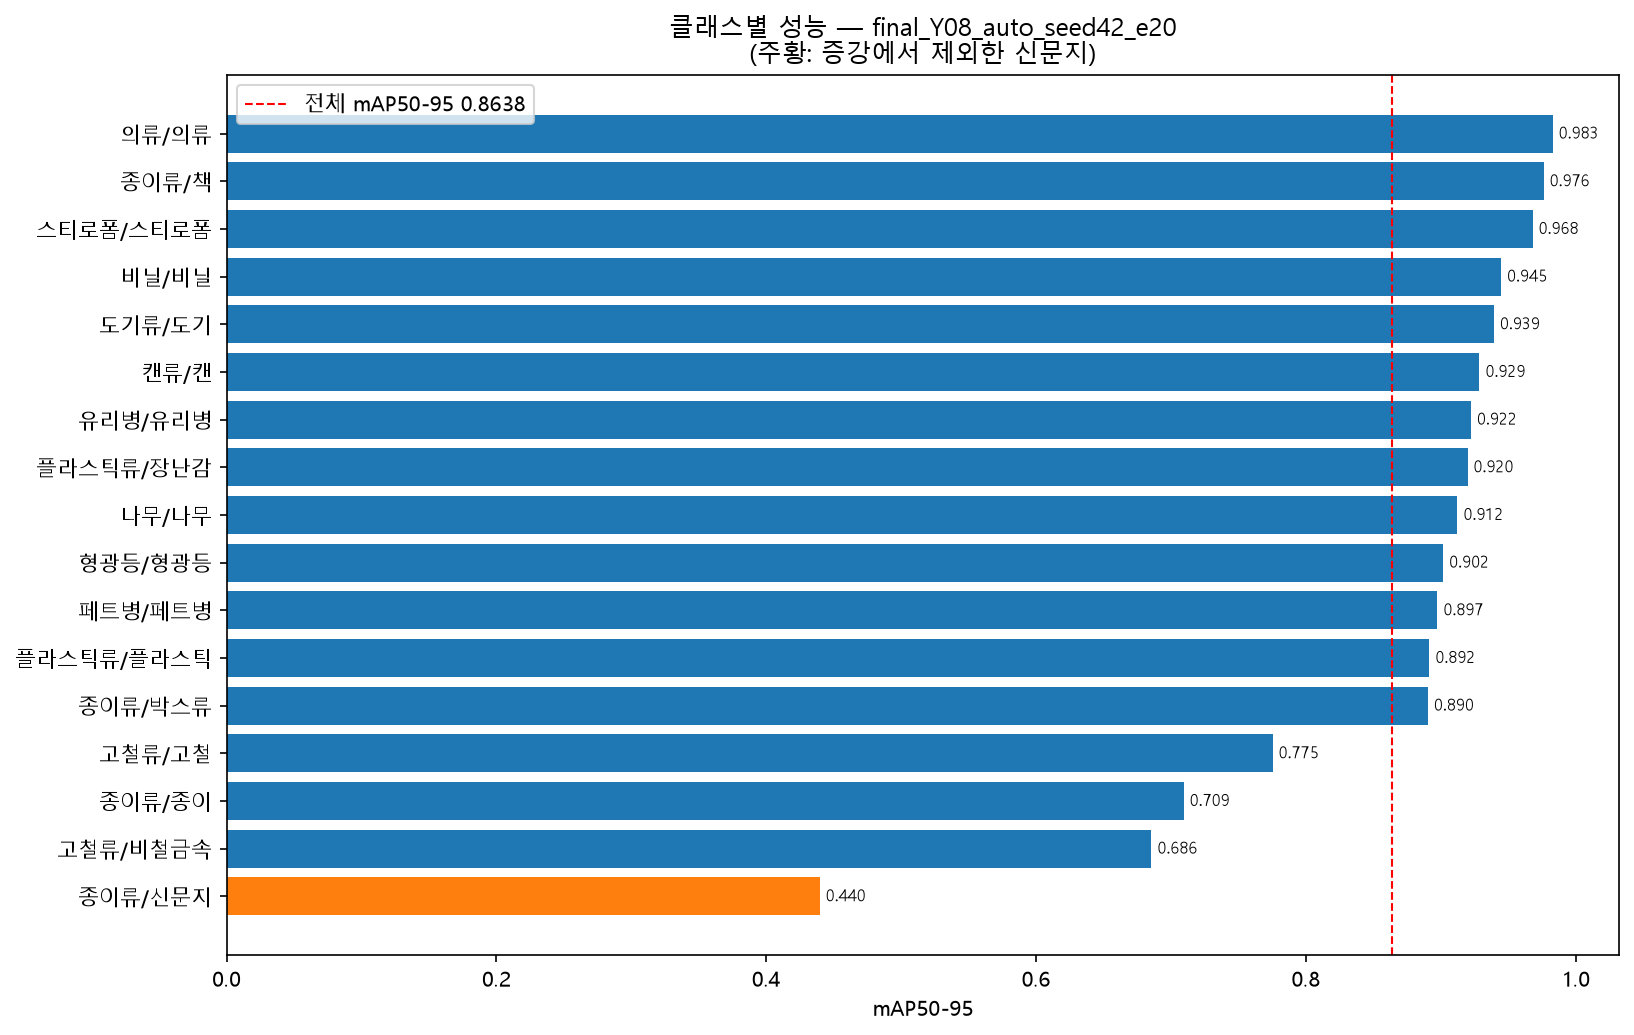
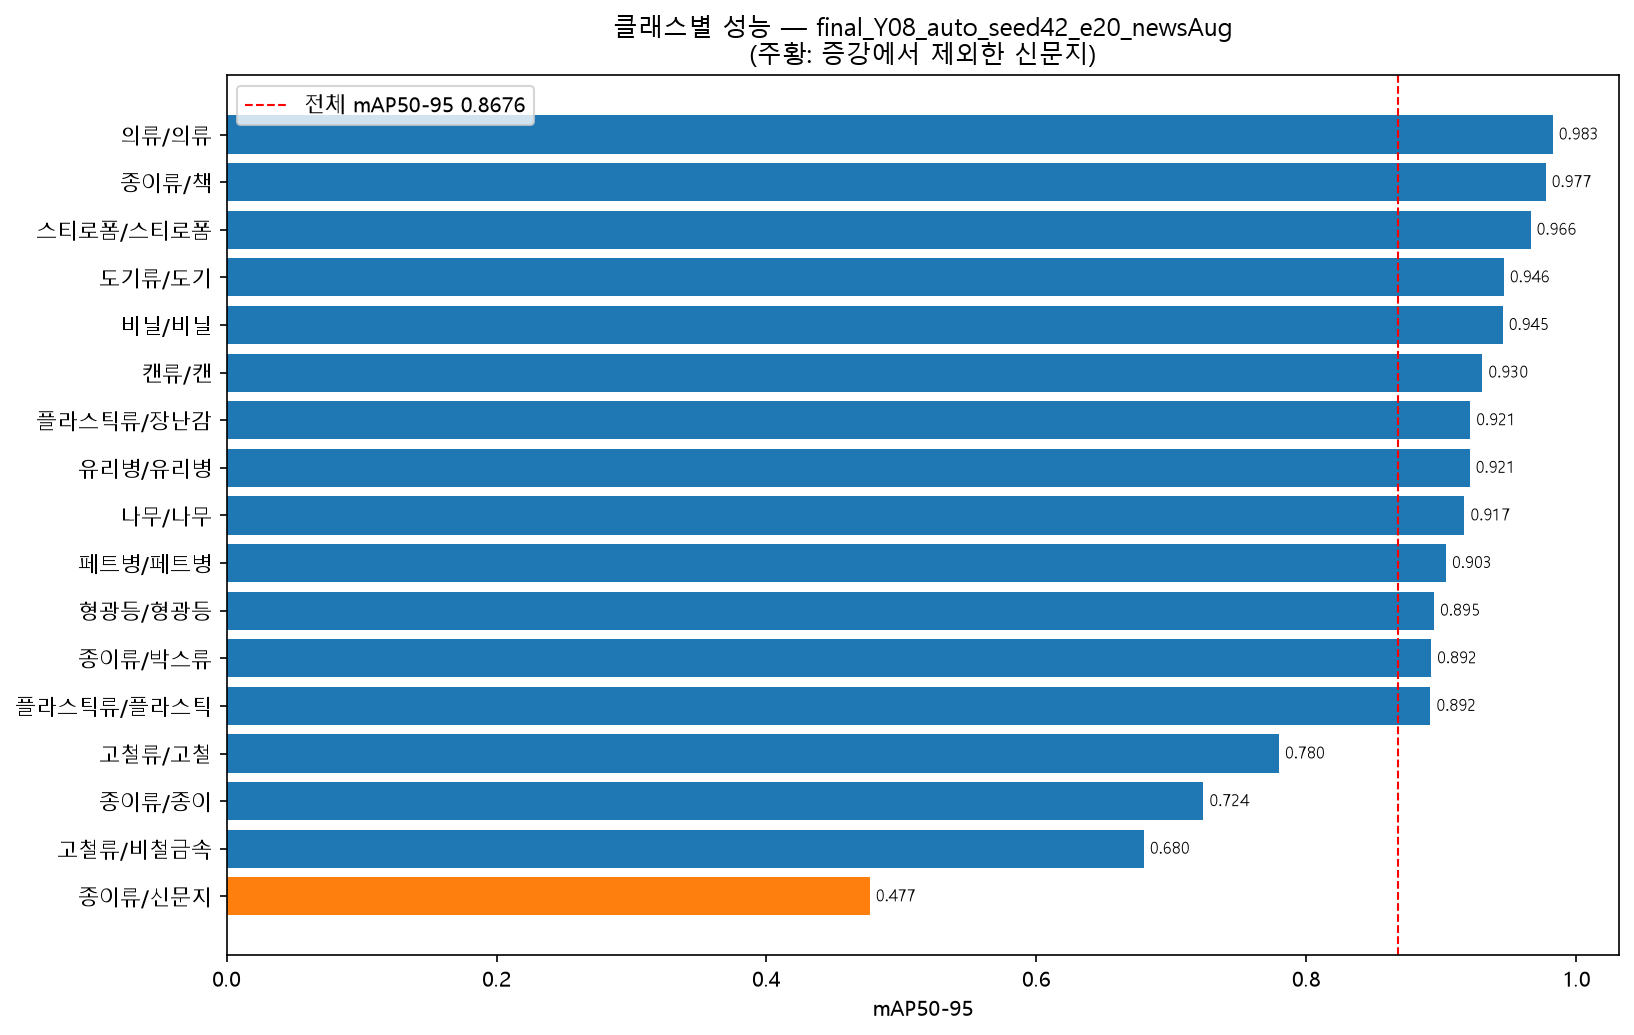
experiment: 신문지 증강 A/B 결과 반영 — newsAug 판을 배포본으로 교체
신문지(class 10)를 학습 중 증강에서 제외할지 A/B 로 확인했습니다.
전 클래스를 동일하게 증강한 쪽이 모든 지표에서 우위였습니다.

                     제외(구본)   전체증강(newsAug)
  mAP50-95             0.8638         0.8676
  mAP50                0.9173         0.9226
  Precision            0.8911         0.8987
  Recall               0.8816         0.8971
  추론(ms/장)            1.33           1.30

- weights/best.pt 를 newsAug 판으로 교체 (구본은 backup 으로 보관)
- ai/README.md: 배포본 경로·지표를 newsAug 기준으로 갱신,
  이전에 남겨둔 "기록 불일치" 주의 문구 정리

diff --git a/ai/README.md b/ai/README.md
@@ -23,6 +23,7 @@ ai/
 5. [실험 흐름과 개선 과정](#5-실험-흐름과-개선-과정)
 6. [겪은 문제와 해결](#6-겪은-문제와-해결)
 7. [숫자를 읽을 때의 규칙](#7-숫자를-읽을-때의-규칙)
+8. [신문지 증강 A/B 실험](#신문지-증강-ab-실험)
 
 ---
 
@@ -30,7 +31,7 @@ ai/
 
 | 항목 | 값 |
 |---|---|
-| 가중치 | `weights/best.pt` (= `ai/models/yolo/07_final_training/runs/final_Y08_auto_seed42_e20/weights/best.pt`) |
+| 가중치 | `weights/best.pt` (= `ai/models/yolo/07_final_training/runs/final_Y08_auto_seed42_e20_newsAug/weights/best.pt`) |
 | 베이스 모델 | `yolo26n.pt` |
 | 클래스 | 17개 |
 | 학습 데이터 | 144,315장 (객체 158,590개) |
@@ -38,22 +39,20 @@ ai/
 | epoch / imgsz / batch | 20 / 640 / 8 |
 | 증강 | `mosaic=0.7`, `close_mosaic=4`, 나머지 전부 0 |
 | 하이퍼파라미터 | `optimizer="auto"` (Optuna 튜닝값 미사용) |
-| 신문지(class 10) | 학습 중 증강에서 제외 (아래 주의 참고) |
-| mAP50-95 | **0.8639** |
-| mAP50 | 0.9173 |
-| Precision / Recall / F1 | 0.8911 / 0.8816 / 0.8863 |
+| 신문지(class 10) | **다른 클래스와 동일하게 증강** (`EXCLUDE_NEWSPAPER_FROM_AUG = False`) |
+| mAP50-95 | **0.8676** |
+| mAP50 | 0.9226 |
+| Precision / Recall / F1 | 0.8987 / 0.8971 / 0.8979 |
 | 추론 속도 | **1.33 ms/장** (RTX 4070 Laptop) |
 | 학습 시간 | 약 20시간 |
 
 > `test` 분할은 없습니다. 위 수치는 전부 **val 기준**입니다.
 >
-> **신문지 증강 제외 여부는 파일마다 기록이 엇갈립니다.**
-> `final_result.csv`(09-28 08:22) 는 `newspaper_excluded = True`,
-> `final_decision.json`(09-28 15:17 재생성) 은 `"적용": false` 입니다.
-> 학습 결과 파일이 08:22 로 더 이르고 실행 이름에 `newsNoAug` 가 붙은 사본
-> (`final_result_final_Y08_auto_seed42_e20_newsNoAug.csv`, 내용 동일)이 있는 것으로 보아
-> **실제 학습은 제외한 상태로 돌았고**, 이후 결정 파일만 옵션을 끈 채 다시 생성된 것으로
-> 보입니다. 재현 전에 `selective_aug.py` 적용 여부를 반드시 확인하세요.
+> **신문지 증강 여부는 A/B 로 확정했습니다.** 아래 [신문지 증강 A/B 실험](#신문지-증강-ab-실험) 참고.
+>
+> 과거에 기록이 엇갈렸던 원인도 확인됐습니다. `final_decision.json` 이 `"적용": false` 였던 것은
+> 2차 학습 전 `--dry-run` 이 그 파일을 다시 쓴 탓이고, 1차 학습(09-28 08:22)은 실제로
+> **제외한 상태**가 맞습니다.
 
 ---
 
@@ -467,6 +466,59 @@ def close_mosaic(self, hyp):
 
 ---
 
+## 신문지 증강 A/B 실험
+
+같은 데이터·같은 설정으로 **변수 하나만 바꿔** 20 epoch 씩 두 번 학습했습니다.
+
+```python
+# ai/notebooks/07_final_training.py
+EXCLUDE_NEWSPAPER_FROM_AUG = True    # 1차 — 신문지만 학습 중 증강에서 제외
+EXCLUDE_NEWSPAPER_FROM_AUG = False   # 2차 — 다른 클래스와 동일하게 증강
+```
+
+나머지는 전부 동일합니다 (`Y08 mosaic=0.7` / `close_mosaic=4` / `optimizer=auto` /
+`epochs=20` / `batch=8` / `seed=42` / train 144,315 / val 10,548).
+
+### 결과 — 2차(증강 포함)가 낫습니다
+
+| 지표 | 1차 `newsNoAug` | 2차 `newsAug` | 차이 |
+|---|---|---|---|
+| **mAP50-95** | 0.8638 | **0.8676** | **+0.0038** |
+| mAP50 | 0.9173 | **0.9226** | +0.0053 |
+| Precision | 0.8911 | **0.8987** | +0.0076 |
+| Recall | 0.8816 | **0.8971** | +0.0155 |
+
+클래스별로는 **12개 개선 / 5개 악화**, 예측대로 신문지가 가장 크게 올랐습니다.
+
+| 클래스 | 1차 | 2차 | 차이 |
+|---|---|---|---|
+| **종이류/신문지** | 0.4396 | **0.4765** | **+0.0369** |
+| 종이류/종이 | 0.7094 | 0.7237 | +0.0143 |
+| 도기류/도기 | 0.9394 | 0.9463 | +0.0069 |
+| … | | | |
+| 형광등/형광등 | 0.9017 | 0.8945 | −0.0072 |
+| 고철류/비철금속 | 0.6855 | 0.6796 | −0.0060 |
+
+**신문지를 뺀 16개 클래스 평균은 +0.0017** 로, 우려했던 "다른 클래스 손해"는 없었습니다.
+
+### 해석할 때 주의
+
+- **전체 +0.0038 은 seed 편차(std 0.0085) 범위 안**입니다. 단일 수치로는 유의하다고
+  말하기 어렵고, **4개 지표가 모두 오르고 12/17 클래스가 개선된 방향의 일관성**이 근거입니다.
+- 신문지 +0.0369 는 06-1 실험에서 기대했던 폭(0.41 → 0.77)에 한참 못 미칩니다.
+  그 실험은 신문지가 58장뿐이던 시절이라 1,736장 규모에 그대로 적용한 것이 무리였습니다.
+- **신문지 val 은 16장**이라 이 클래스의 수치 자체가 흔들릴 수 있습니다.
+
+### 결론
+
+"이미 오프라인에서 4배 증강했으니 추가 증강은 과증강"이라는 1차의 판단은
+**틀렸습니다.** 신문지도 다른 클래스와 동일하게 증강하는 것이 낫습니다.
+
+`selective_aug.py` 는 삭제하지 않고 남겨 둡니다. 특정 클래스만 증강에서 빼는 기능
+자체는 유효하고, 이 A/B 의 1차 조건을 재현하려면 필요합니다.
+
+---
+
 ## 재현 방법
 
 ```bash
@@ -474,7 +526,10 @@ def close_mosaic(self, hyp):
 uv run python ai/preprocessing/01_common_detection_preprocess_flexible_damage.py
 
 # 2. 최종 학습 (약 20시간)
-uv run --no-sync python ai/notebooks/07_final_training.py
+#    현재 설정은 EXCLUDE_NEWSPAPER_FROM_AUG = False (2차, 권장)
+#    1차 조건을 재현하려면 07_final_training.py:290 을 True 로 바꾸세요.
+#    run 이름에 newsAug / newsNoAug 태그가 자동으로 붙어 결과가 섞이지 않습니다.
+uv run --no-sync python ai/notebooks/07_final_training.py --log train.log
 
 # 2-1. 중간에 멈췄다면 마무리만
 uv run --no-sync python ai/notebooks/07_finalize.py --deploy
